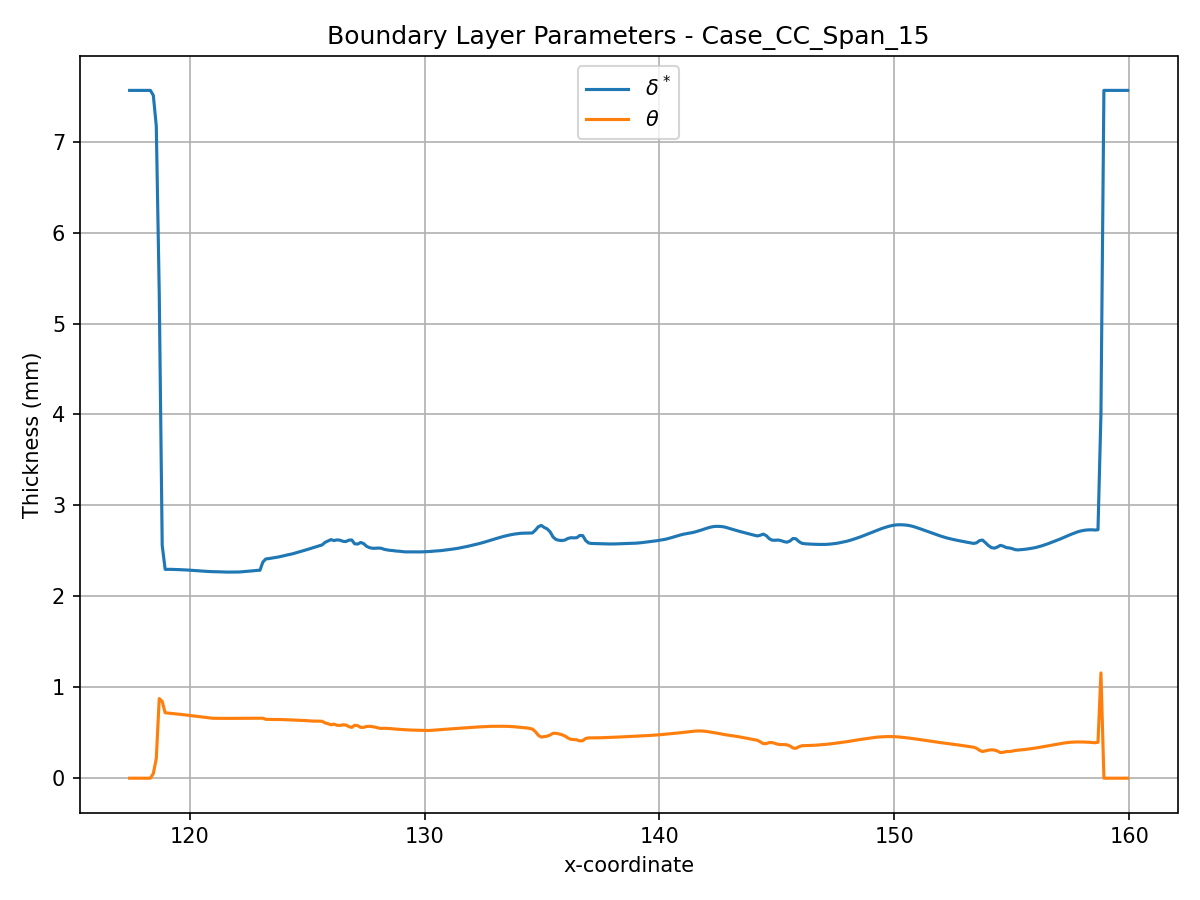
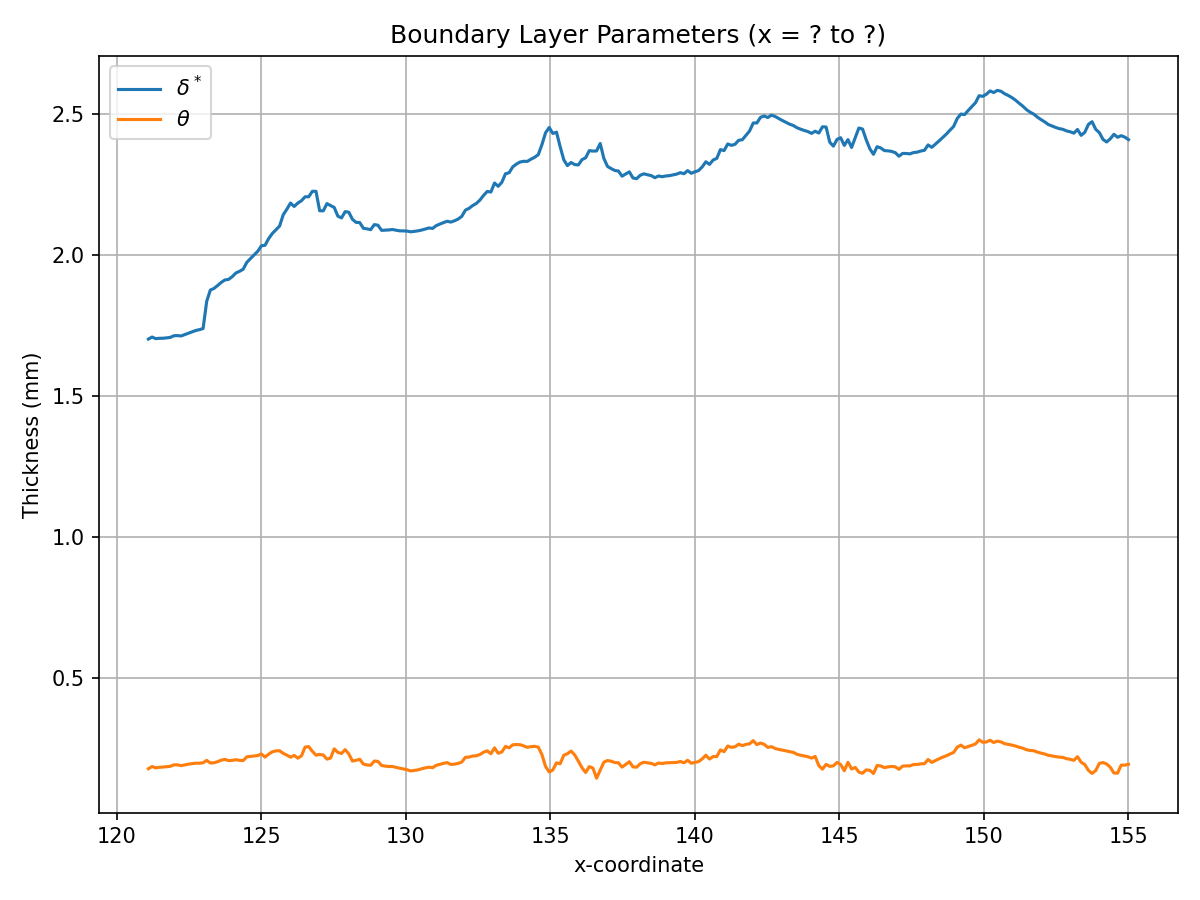
Co-authored-by: Andreit04 <Andreit04@users.noreply.github.com> Co-authored-by: Cristian-Caba <Cristian-Caba@users.noreply.github.com>

diff --git a/Boundary_Layer_Characterization.py b/Boundary_Layer_Characterization.py
@@ -4,7 +4,7 @@ from numpy import trapz
 from pathlib import Path
 
 import pandas as pd
-from u_infinity import compute_u_inf_for_config_span
+#from u_infinity import compute_u_inf_for_config_span
 
 import os
 import numpy as np
@@ -15,14 +15,27 @@ import matplotlib.pyplot as plt
 # Example function to retrieve free-stream velocity as a function of x.
 # Replace with your actual implementation/data source.
 # ---------------------------------------------------------------------
-def get_u_e(x_val):
+def get_u_e(xcoord, filename,filenameu):
     """
     Return free-stream velocity at a given x coordinate.
     In practice, this might come from an external function,
     interpolation from a table, or other data.
     """
-    # Dummy example: assume constant free-stream velocity = 1.0
-    return 15 + x_val / 80
+    
+    minvort = 100000
+    rowminvort = 0
+    with open(filename) as file:
+        matrix = np.genfromtxt(file, delimiter=',', filling_values=np.nan)
+        
+        for i in range(35,45):
+            if matrix[i][xcoord] < minvort:
+                minvort=matrix[i][xcoord]
+                rowminvort = i
+    with open(filenameu) as file:
+        matrix = np.genfromtxt(file, delimiter=',', filling_values=np.nan)
+        
+    return float(matrix[rowminvort+1][xcoord+1])
+         
 
 # ---------------------------------------------------------------------
 # Function to compute displacement and momentum thickness
@@ -70,11 +83,11 @@ def main():
     counter = 0
     # We will store results for each case (i=1..25)
     # Each file can contain multiple x-stations, so we get arrays of x, delta*, theta
-    for i in range(1, 26):
+    for i in range(1, 25):
         # Filenames for u and v
-        file_u = os.path.join(data_dir, f"Case_SC_Span_{i}.txt_u.csv")
-        file_v = os.path.join(data_dir, f"Case_SC_Span_{i}.txt_v.csv")
-
+        file_u = os.path.join(data_dir, f"Case_CC_Span_{i}.txt_u.csv")
+        file_v = os.path.join(data_dir, f"Case_CC_Span_{i}.txt_v.csv")
+        file_vort = os.path.join( f"./Vorticity/Case_CC_Span_{i}.txt_vorticity.csv")
         # --- READ THE U-COMPONENT CSV ---
         # We assume the CSV is structured such that:
         #   - row 0: [NaN, x1, x2, x3, ...]
@@ -88,7 +101,7 @@ def main():
             continue
 
         # Extract x-coordinates from row 0, skipping the very first cell
-        x_coords = df_u.iloc[0, 1:].values.astype(float)
+        x_coords = df_u.iloc[0, 30:300].values.astype(float)
 
         # Extract y-coordinates from col 0, skipping the very first cell
         y_coords = df_u.iloc[1:, 0].values.astype(float)
@@ -99,7 +112,7 @@ def main():
 
         # Extract the velocity data
         # This should be a 2D array of shape (len(y_coords), len(x_coords))
-        u_data = df_u.iloc[1:, 1:].values.astype(float)
+        u_data = df_u.iloc[1:, 30:300].values.astype(float)
 
         # Check that shapes match expectations
         ny = len(y_coords)
@@ -117,9 +130,8 @@ def main():
             # velocity profile in y at this x
             u_profile = u_data[:, ix]
             x_val = x_coords[ix]
-
             # Get free-stream velocity at this x
-            u_e = get_u_e(x_val)
+            u_e = get_u_e(ix+30,file_vort,file_u)
 
             # Compute boundary-layer parameters
             dstar, th = compute_boundary_layer_params(y_coords_m, u_profile, u_e)
@@ -142,32 +154,38 @@ def main():
         else:
             print(f"No v-file found for i={i}: {file_v}")
 
+
+
+    
         # --- PLOTTING ---
         # Plot delta* and theta vs x
-        plt.figure(figsize=(8,6))
 
-        x_coords = np.arrage
+        # PROBLEM: APPARENT DATA ANOMALIES AT INTERVAL ENDS !!!!
+        # SOLUTION: CROP TO AVOID ANOMALIES                 !!!!
 
+        #mask = (x_coords >= 120) & (x_coords <= 155)
+        #x_coords_crop     = x_coords[mask]
+        #delta_star_crop   = delta_star_vals[mask]
+        #theta_crop        = theta_vals[mask]
+
+        plt.figure(figsize=(8, 6))
         plt.plot(x_coords, delta_star_vals, label=r'$\delta^*$')
         plt.plot(x_coords, theta_vals,      label=r'$\theta$')
         plt.xlabel("x-coordinate")
         plt.ylabel("Thickness (mm)")
-        plt.title(f"Boundary Layer Parameters - Case_CC_Span_{i}")
+        plt.title("Boundary Layer Parameters (x = ? to ?)")
         plt.legend()
         plt.grid(True)
         plt.tight_layout()
-
-        plot_dir = "BL_plots"
+        #plt.show()
 
         # Save in the "plots" folder
+        plot_dir = "BL_plots"
         outname = os.path.join(plot_dir, f"BL_Parameters_Case_{i}.png")
         plt.savefig(outname, dpi=150)
         plt.close()
         
         print(f"Processed i={i}: saved plot to {outname}")
-
-        print(f"Processed i={i}: saved plot {outname}")
-        #print(counter)
 
 if __name__ == "__main__":
     main()
